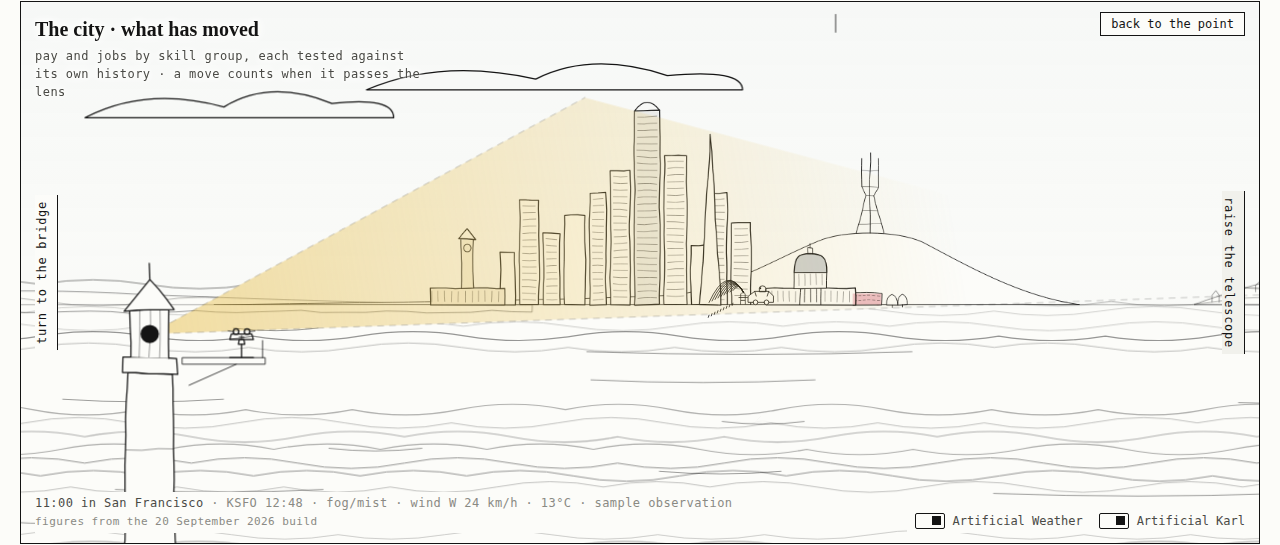
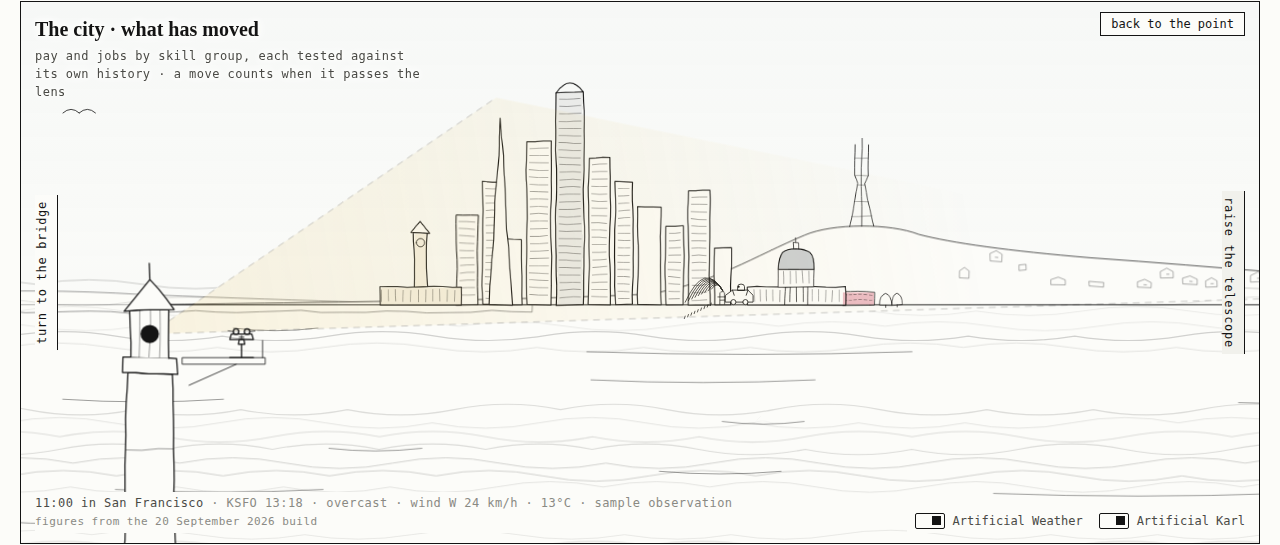
Front page: clouds that keep their place, some behind the land and some in front, the downtown towers in their order, homes on the slopes under Sutro, a fainter light, the east bay hills with their crowned ridge and a train below them, a varied launch that coasts and falls, planes of several kinds, 

diff --git a/docs/mockup/index.html b/docs/mockup/index.html
@@ -65,6 +65,8 @@ header.top{display:flex;align-items:baseline;justify-content:space-between;gap:1
 .fog{transition:opacity .6s}
 .stage[data-aw="off"] .sky .cloud,.stage[data-aw="off"] .sky .rain,.stage[data-aw="off"] .sky .hair,.stage[data-aw="off"] .dawn,.stage[data-aw="off"] .sunwash{opacity:0 !important}
 .stage[data-ak="off"] .fog{opacity:0 !important}
+.bart{animation:bart 26s linear infinite}
+@keyframes bart{0%{transform:translateX(300px)}50%{transform:translateX(840px)}100%{transform:translateX(840px)}}
 .water{animation:swell 6s ease-in-out infinite alternate}
 .water.b{animation-name:swellb;animation-duration:8.5s;animation-delay:-3s}
 .water.c{animation-name:swellc;animation-duration:11s;animation-delay:-6s}
@@ -74,12 +76,13 @@ header.top{display:flex;align-items:baseline;justify-content:space-between;gap:1
 .crest{animation:crest 4s ease-in-out infinite;opacity:0}
 @keyframes crest{0%,100%{opacity:0}40%,60%{opacity:.9}}
 .life{pointer-events:none}
-.gust .fogline{animation-duration:calc(var(--drift,60s)/3) !important}
-.gust .cloud{animation-duration:calc(var(--cdrift,240s)/4) !important}
+/* a gust pushes the fog and the cloud along and lets them settle back; changing their speed mid-way would make them jump */
+#fog,#sky,#skyfront{transition:transform 3s ease-in-out}.gust #fog{transform:translateX(-60px);transition-duration:1.6s}.gust #sky,.gust #skyfront{transform:translateX(-30px);transition-duration:1.6s}
 .fogline{animation:drift var(--drift,60s) linear infinite;animation-direction:var(--dir,normal)}
 .fogline.b{animation-duration:calc(var(--drift,60s)*1.4)}
-@keyframes drift{from{transform:translateX(0)}to{transform:translateX(-160px)}}
-.cloud{animation:drift var(--cdrift,240s) linear infinite;animation-direction:var(--dir,normal)}
+@keyframes drift{from{transform:translateX(0)}to{transform:translateX(-180px)}}
+@keyframes cdrift{from{transform:translateX(1900px)}to{transform:translateX(-500px)}}
+.cloud{animation:cdrift var(--cdrift,1440s) linear infinite;animation-direction:var(--dir,normal)}
 .rain{animation:fall var(--rfall,1.1s) linear infinite}
 @keyframes fall{from{transform:translateY(-40px)}to{transform:translateY(40px)}}
 .sunwash,.dawn{pointer-events:none}
@@ -97,7 +100,7 @@ header.top{display:flex;align-items:baseline;justify-content:space-between;gap:1
 .night .nightlight{opacity:.85}
 .crownblock{animation:flicker 9s ease-in-out infinite}
 @keyframes flicker{0%,100%{opacity:.15}35%{opacity:.9}60%{opacity:.3}80%{opacity:.7}}
-.night .halo{opacity:.55;filter:url(#glow)}
+.night .halo{opacity:.28;filter:url(#glow)}
 
 .hot{cursor:pointer}
 .hot,.hot *{outline:none;pointer-events:auto}
@@ -186,7 +189,7 @@ header.top{display:flex;align-items:baseline;justify-content:space-between;gap:1
 .src b{color:var(--ink);font-weight:500}
 .coin .close{margin-top:12px;font-family:var(--mono);font-size:12px;background:transparent;border:1px solid var(--ink);color:var(--ink);padding:5px 12px;cursor:pointer}
 
-@media (prefers-reduced-motion: reduce){.fogline,.cloud,.rain,.water,.crest,.crownblock{animation:none}.stage>svg,.zoom,.viewer,.beam,.mask-in{transition:none}}
+@media (prefers-reduced-motion: reduce){.fogline,.cloud,.rain,.water,.crest,.crownblock,.bart{animation:none}.stage>svg,.zoom,.viewer,.beam,.mask-in{transition:none}}
 @media (max-width:820px){
   /* On a phone the drawing is a picture and the figures beneath it are the way in: the labels in the
      drawing go, the filters go, and the three views become three cards to tap. */
@@ -225,14 +228,14 @@ header.top{display:flex;align-items:baseline;justify-content:space-between;gap:1
     <!-- ================= the one scene from the point, painted once; the colour lies over the ink ================= -->
     <svg class="pan" id="L-static" viewBox="0 0 1600 700" aria-hidden="true"><g class="zoom scene"><g id="far"></g><g id="washes"></g></g></svg>
     <svg class="pan" id="L-lights" viewBox="0 0 1600 700" aria-hidden="true"><g class="zoom"><g id="lights" class="scene"></g></g></svg>
-    <svg class="pan" id="L-water" viewBox="0 0 1600 700" aria-hidden="true"><g class="zoom scene"><g id="water" class="hair"></g><g id="fog" class="fog" mask="url(#fogmask)"></g></g></svg>
+    <svg class="pan" id="L-water" viewBox="0 0 1600 700" aria-hidden="true"><g class="zoom scene"><g id="skyfront" class="sky thin"></g><g id="water" class="hair"></g><g id="fog" class="fog" mask="url(#fogmask)"></g></g></svg>
     <!-- foreground: the point, the lighthouse, the railing, the viewer at rest -->
-    <svg id="L-life" viewBox="0 0 1600 700" aria-hidden="true"><defs><clipPath id="behind-hills"><path clip-rule="evenodd" d="M0 0 H1600 V700 H0 Z M 1452 341 C 1490 326, 1535 316, 1575 318 C 1590 319, 1598 322, 1600 324 L 1600 341 Z"/></clipPath></defs><g id="life" class="life scene"></g></svg>
+    <svg id="L-life" viewBox="0 0 1600 700" aria-hidden="true"><defs><clipPath id="behind-hills"><path clip-rule="evenodd" d="M0 0 H1600 V700 H0 Z M 1400 342 L 1400 313 L 1500 320 L 1600 329 L 1600 342 Z"/></clipPath></defs><g id="life" class="life scene"></g></svg>
     <svg class="fg" id="L-fg" viewBox="0 0 1600 700" role="group" aria-label="An ink drawing of a lighthouse on a headland. Turn to the city or the bridge, or raise the coin telescope to look at the valley.">
       <g class="zoom" id="fgzoom"><g id="fg" class="scene">
         <path d="M560 700 C 600 620, 690 590, 760 585 C 830 580, 880 600, 930 610 C 980 620, 1040 660, 1060 700 Z" style="fill:var(--paper)"/>
         <path d="M600 660 C 650 640, 700 645, 740 630 M850 640 C 900 630, 950 650, 1000 670" class="thin"/>
-        <defs><linearGradient id="beamgrad" gradientUnits="userSpaceOnUse"><stop offset="0" stop-color="#E8C35A" stop-opacity=".55"/><stop offset="1" stop-color="#E8C35A" stop-opacity="0"/></linearGradient></defs>
+        <defs><linearGradient id="beamgrad" gradientUnits="userSpaceOnUse"><stop offset="0" stop-color="#E8C35A" stop-opacity=".16"/><stop offset="1" stop-color="#E8C35A" stop-opacity="0"/></linearGradient></defs>
         <g class="beam" id="beam"><polygon id="beamlight" points="0,0" fill="url(#beamgrad)" style="stroke:none"/><path d="" class="hair" stroke-dasharray="6 6"/></g>
         <g id="lh"></g>
         <!-- a small platform off the gallery, and the coin telescope on it, turned south -->
@@ -363,8 +366,9 @@ header.top{display:flex;align-items:baseline;justify-content:space-between;gap:1
   }
   function suspension(g, x1, x2, deckY, towerH, sag){
     const mid = (x1+x2)/2;
+    el("path", {d:`M${x1-160} ${deckY} L ${x2+160} ${deckY} L ${x2+160} ${deckY+10} L ${x1-160} ${deckY+10} Z`, style:"fill:var(--paper);stroke:none"}, g);
     el("path", {d:`M${x1-160} ${deckY} L ${x2+160} ${deckY}`}, g); el("path", {d:`M${x1-160} ${deckY+10} L ${x2+160} ${deckY+10}`, class:"thin"}, g);
-    for (const x of [x1, x2]){ el("path", {d:`M${x-8} ${deckY+40} L ${x-6} ${deckY-towerH} L ${x+6} ${deckY-towerH} L ${x+8} ${deckY+40}`}, g); el("path", {d:`M${x-6} ${deckY-towerH+18} L ${x+6} ${deckY-towerH+18} M${x-7} ${deckY-towerH*0.55} L ${x+7} ${deckY-towerH*0.55}`, class:"thin"}, g); }
+    for (const x of [x1, x2]){ el("path", {d:`M${x-8} ${deckY+40} L ${x-6} ${deckY-towerH} L ${x+6} ${deckY-towerH} L ${x+8} ${deckY+40} Z`, style:"fill:var(--paper)"}, g); el("path", {d:`M${x-6} ${deckY-towerH+18} L ${x+6} ${deckY-towerH+18} M${x-7} ${deckY-towerH*0.55} L ${x+7} ${deckY-towerH*0.55}`, class:"thin"}, g); }
     el("path", {d:`M${x1} ${deckY-towerH} Q ${mid} ${deckY-towerH+sag} ${x2} ${deckY-towerH}`}, g);
     el("path", {d:`M${x1} ${deckY-towerH} Q ${x1-100} ${deckY-towerH*0.4} ${x1-160} ${deckY}`}, g);
     el("path", {d:`M${x2} ${deckY-towerH} Q ${x2+100} ${deckY-towerH*0.4} ${x2+160} ${deckY}`}, g);
@@ -457,7 +461,7 @@ header.top{display:flex;align-items:baseline;justify-content:space-between;gap:1
 
   // the city, small on the horizon, drawn once at the size it has from here; turning to it scales this
   // drawn in its own units and mirrored into the scene, since from Point Bonita the waterfront is the north end, on the left, and Sutro the south, on the right
-  const CITY = { x:900, y:340, k:0.42, w:1580 };
+  const CITY = { x:860, y:340, k:0.46, w:1580 };
   const cityX = u => CITY.x + (CITY.w - u)*CITY.k;
   const cityTransform = `translate(${CITY.x + CITY.w*CITY.k},${CITY.y}) scale(${-CITY.k},${CITY.k})`;
   const cityG = el("g", {transform:cityTransform, class:"city"}, far), cityW = el("g", {transform:cityTransform}, washes);
@@ -466,16 +470,27 @@ header.top{display:flex;align-items:baseline;justify-content:space-between;gap:1
     // the hills behind the city, filled, so the sky stays behind them
     // the land: a slope up from the shore to Sutro's crest, down again, then the flat of downtown to the waterfront
     const b0 = baseY-8;
-    el("path", {d:`M ${ox+420} ${b0} C ${ox+500} ${b0-12}, ${ox+570} ${b0-52}, ${ox+630} ${b0-84} C ${ox+665} ${b0-100}, ${ox+735} ${b0-100}, ${ox+770} ${b0-86} C ${ox+830} ${b0-60}, ${ox+880} ${b0-26}, ${ox+960} ${b0-14} C ${ox+1100} ${b0-6}, ${ox+1300} ${b0-4}, ${ox+1580} ${b0} Z`, class:"thin", style:"fill:var(--paper)"}, g);
+    el("path", {d:`M ${ox-40} ${b0} L ${ox-40} ${b0-24} C ${ox+120} ${b0-32}, ${ox+260} ${b0-46}, ${ox+420} ${b0-58} C ${ox+520} ${b0-66}, ${ox+590} ${b0-76}, ${ox+630} ${b0-86} C ${ox+665} ${b0-100}, ${ox+735} ${b0-100}, ${ox+770} ${b0-86} C ${ox+830} ${b0-60}, ${ox+880} ${b0-26}, ${ox+960} ${b0-14} C ${ox+1100} ${b0-6}, ${ox+1300} ${b0-4}, ${ox+1580} ${b0} Z`, class:"thin", style:"fill:var(--paper)"}, g);
+    // the homes on the slopes south of Sutro and under it, in two loose rows below the ridge
+    const ridge = [[-40,-24],[120,-32],[260,-46],[420,-58],[520,-66],[630,-86]];
+    const ridgeY = u => { for (let i=1;i<ridge.length;i++) if (u <= ridge[i][0]){ const [a, ya] = ridge[i-1], [b, yb] = ridge[i]; return ya + (yb-ya)*(u-a)/(b-a); } return -86; };
+    { const rh = rng(97);
+      for (let u = 0; u < 590; u += 26 + rh()*30){
+        const depth = 8 + rh()*34, base = b0 + ridgeY(u) + depth; if (base > b0 - 4) continue;
+        const w_ = 9 + rh()*9, h_ = 5 + rh()*5, x = ox + u + rh()*8;
+        // a small house: a box with a pitched or a flat roof, a window now and then
+        const roof = rh() < .6 ? `L ${x+w_/2} ${base-h_-4}` : "";
+        el("path", {d:`M${x} ${base} L ${x} ${base-h_} ${roof} L ${x+w_} ${base-h_} L ${x+w_} ${base} Z`, class:"hair", style:"fill:var(--paper)"}, g);
+        if (rh() < .5) el("path", {d:`M${x+w_*.35} ${base-h_*.55} l 3 0`, class:"hair"}, g); } }
     const sx = ox+700, sy = baseY-104;
     // Sutro: three masts, the outer pair upright at the top, pinched to a waist, splayed to the feet, tied by struts
     const H = 100;
-    el("path", {d:`M${sx-19} ${sy} L ${sx-5} ${sy-H*0.5} L ${sx-11} ${sy-H*0.62} L ${sx-11} ${sy-H} M${sx} ${sy-H-8} L ${sx} ${sy} M${sx+19} ${sy} L ${sx+5} ${sy-H*0.5} L ${sx+11} ${sy-H*0.62} L ${sx+11} ${sy-H}`, class:"thin"}, g);
-    for (const [f, hw] of [[0.12, 16], [0.3, 11], [0.5, 5], [0.62, 11], [0.84, 11]]) el("path", {d:`M${sx-hw} ${sy-H*f} L ${sx+hw} ${sy-H*f}`, class:"hair"}, g);
+    el("path", {d:`M${sx-15} ${sy} L ${sx-4} ${sy-H*0.52} L ${sx-8} ${sy-H*0.62} L ${sx-8} ${sy-H} M${sx} ${sy-H-8} L ${sx} ${sy} M${sx+15} ${sy} L ${sx+4} ${sy-H*0.52} L ${sx+8} ${sy-H*0.62} L ${sx+8} ${sy-H}`, class:"thin"}, g);
+    for (const [f, hw] of [[0.12, 13], [0.3, 9], [0.5, 4], [0.62, 8], [0.84, 8]]) el("path", {d:`M${sx-hw} ${sy-H*f} L ${sx+hw} ${sy-H*f}`, class:"hair"}, g);
     const towers = [[860,110,26,1],[892,150,24,1],[920,80,20,0],[946,200,30,1],[982,260,34,1],[1022,180,26,1],[1054,150,22,1],[1082,120,28,0],[1116,96,22,1],[1144,140,26,1],[1176,70,20,0]];
-    for (const [x,h,w_,win] of towers) box(g, ox+x, baseY-h-8, w_, h, win);
-    el("path", {d:`M ${ox+900} ${baseY-8} L ${ox+914} ${baseY-236} L ${ox+928} ${baseY-8} Z`, style:"fill:var(--paper)"}, g);
-    el("path", {d:`M ${ox+982} ${baseY-268} Q ${ox+999} ${baseY-290} ${ox+1016} ${baseY-268}`}, g);
+    for (const [x,h,w_,win] of towers) box(g, ox + 2056 - x - w_, baseY-h-8, w_, h, win);
+    el("path", {d:`M ${ox+1128} ${baseY-8} L ${ox+1142} ${baseY-236} L ${ox+1156} ${baseY-8} Z`, style:"fill:var(--paper)"}, g);
+    el("path", {d:`M ${ox+1040} ${baseY-268} Q ${ox+1057} ${baseY-290} ${ox+1074} ${baseY-268}`}, g);
     // City Hall and Hayes Valley west of the towers, under Sutro: the house a little behind, the trees in front of it
     const hv = ox+CH, gy = baseY-8;
     el("path", {d:`M ${hv-96} ${gy} L ${hv-96} ${gy-16} L ${hv-56} ${gy-16} L ${hv-56} ${gy} Z`, class:"thin", style:"fill:var(--paper)"}, g);
@@ -494,22 +509,13 @@ header.top{display:flex;align-items:baseline;justify-content:space-between;gap:1
       tintRect(w, hv-95, gy-15, 38, 15, "var(--rose)");                                                        // the house over the green
       tintRect(w, ox+1191, baseY-29, 98, 21, "var(--cream)");                                                  // the Ferry Building
       tintRect(w, ox+1233, baseY-95, 14, 66, "var(--cream)");
-      tintRect(w, ox+983, baseY-267, 32, 259, "var(--glass)").style.opacity = ".12";                            // the tallest tower
+      tintRect(w, ox+1041, baseY-267, 32, 259, "var(--glass)").style.opacity = ".12";                            // the tallest tower
     }
   }
   skyline(cityG, cityW, 8, true, 0);
 
   // the lighthouse, in front, on the point
   lighthouse($("#lh"), 800, 585, 330);
-  (function southHills(g){
-    el("path", {d:"M 1452 340 C 1490 326, 1535 316, 1575 318 C 1590 319, 1598 322, 1600 324 L 1600 340 Z", class:"hair", style:"fill:var(--paper)"}, g);
-    el("path", {d:"M 1500 340 C 1530 334, 1560 330, 1600 331", class:"hair"}, g);
-    const r = rng(71);
-    for (let x = 1462; x < 1596; x += 9 + r()*6){
-      const t = (x - 1452)/148, hy = 340 - 22*Math.sin(Math.min(1, t*1.2)*Math.PI/2) + 2, w = 4 + r()*3, h = 3 + r()*2;
-      el("path", {d:`M${x} ${hy} L ${x} ${hy-h} L ${x+w/2} ${hy-h-2.5} L ${x+w} ${hy-h} L ${x+w} ${hy}`, class:"hair"}, g);
-    }
-  })(far);
   wobble(far, 1); wobble($("#lh"), 2); wobble(headland, 6);
 
   /* ---------- the city after dark ----------
@@ -540,9 +546,9 @@ header.top{display:flex;align-items:baseline;justify-content:space-between;gap:1
     tint(L, domeHalf(hv, gy-44, 44, 24, -1), ca).classList.add("nightlight");
     tint(L, domeHalf(hv, gy-44, 44, 24, 1), cb).classList.add("nightlight");
     // the crown: a soft wash and a grid of blocks that breathe out of step
-    tintRect(L, ox+983, baseY-290, 32, 30, "#9FB7C9").classList.add("nightlight");
+    tintRect(L, ox+1041, baseY-290, 32, 30, "#9FB7C9").classList.add("nightlight");
     const grid = el("g", {class:"nightlight"}, L); const r = rng(59);
-    for (let i=0;i<4;i++) for (let j=0;j<5;j++){ const b = el("rect", {x:ox+986+i*7, y:baseY-286+j*6, width:5, height:4, class:"crownblock", style:`fill:#9FB7C9;stroke:none`}, grid); b.style.animationDelay = (-r()*9).toFixed(1) + "s"; }
+    for (let i=0;i<4;i++) for (let j=0;j<5;j++){ const b = el("rect", {x:ox+1044+i*7, y:baseY-286+j*6, width:5, height:4, class:"crownblock", style:`fill:#9FB7C9;stroke:none`}, grid); b.style.animationDelay = (-r()*9).toFixed(1) + "s"; }
   }
   drawLights(new Date());
 
@@ -567,8 +573,8 @@ header.top{display:flex;align-items:baseline;justify-content:space-between;gap:1
     el("path", {d:"M-300 -60 L 300 -60", class:"hair"}, hood);
     el("path", {d:"M-14 -134 L 14 -134 M 0 -142 L 0 -126", class:"thin"}, hood);                      // the slot
     el("path", {d:"M-64 -118 L 64 -118 L 64 -78 L -64 -78 Z", class:"thin"}, hood);                  // the plate
-    const t = el("text", {x:0, y:-88, "text-anchor":"middle", class:"cap"}, hood); t.textContent = "25¢";
-    const t2 = el("text", {x:0, y:-46, "text-anchor":"middle"}, hood); t2.textContent = "2 MIN · SOURCES AND METHOD";
+    const t = el("text", {x:0, y:-88, "text-anchor":"middle", class:"cap"}, hood); t.textContent = "25.5¢";
+    const t2 = el("text", {x:0, y:-46, "text-anchor":"middle"}, hood); t2.textContent = "PER MILLION TOKENS · SOURCES AND METHOD";
     el("circle", {cx:-236, cy:-112, r:20}, hood); el("path", {d:"M-236 -132 L -236 -92 M-256 -112 L -216 -112", class:"hair"}, hood);
     const k = el("text", {x:-236, y:-78, "text-anchor":"middle"}, hood); k.textContent = "FOCUS";
     const hot = el("g", {class:"hot", id:"hot-coin", tabindex:"0", role:"button", "aria-label":"Insert a coin for sources and method"}, hood);
@@ -583,14 +589,29 @@ header.top{display:flex;align-items:baseline;justify-content:space-between;gap:1
     const cr = el("clipPath", {id:"eye-r"}, defs); el("rect", {x:800, y:0, width:800, height:700}, cr);
     const L = el("g", {"clip-path":"url(#eye-l)"}, g), R = el("g", {"clip-path":"url(#eye-r)"}, g);
     // left: the hills behind, the campus on its slope, its campanile over the trees, the bay in front
-    el("path", {d:"M 480 250 C 540 226, 610 214, 670 226 C 720 236, 770 226, 820 236 L 820 400 L 480 400 Z", class:"thin", style:"fill:var(--paper)"}, L);
-    el("path", {d:"M 480 300 C 560 286, 660 282, 820 292", class:"hair"}, L);
-    box(L, 548, 352, 56, 42, true); box(L, 700, 360, 70, 34, true); box(L, 612, 370, 30, 24, false);
-    campanile(L, 660, 394, 150);
-    tintRect(L, 649, 245, 22, 149, "var(--cream)");
-    for (const x of [520, 580, 690, 772]) el("path", {d:`M${x} 396 q 0 -16 10 -19 q 10 3 10 19 z`, class:"thin", style:"fill:var(--paper)"}, L);
+    // the hills behind: a ridge crowned with a ragged line of trees, a raised stand of them with a mast in it, then a sharp drop to the lower ridge
+    { const rr = rng(83); let d = "M 480 400 L 480 270";
+      for (let x = 480; x < 596; x += 10){ const y = 268 - (x-480)*0.08; d += ` Q ${x+5} ${(y - 5 - rr()*3).toFixed(1)} ${x+10} ${y.toFixed(1)}`; }
+      d += " L 600 250";
+      for (let x = 600; x < 690; x += 9) d += ` Q ${x+4.5} ${(240 - rr()*4).toFixed(1)} ${x+9} ${(246 + rr()*2).toFixed(1)}`;
+      d += " L 693 267";
+      for (let x = 693; x < 820; x += 11){ const y = 267 + (x-693)*0.03; d += ` Q ${x+5.5} ${(y - 4 - rr()*3).toFixed(1)} ${x+11} ${y.toFixed(1)}`; }
+      el("path", {d: d + " L 820 400 Z", class:"thin", style:"fill:var(--paper)"}, L); }
+    el("path", {d:"M 646 242 L 646 224 M 643 230 L 649 230", class:"hair"}, L);
+    el("path", {d:"M 480 318 C 540 300, 600 292, 660 300 C 720 308, 770 300, 820 306 M 560 334 C 600 322, 640 320, 700 330", class:"hair"}, L);
+    box(L, 616, 352, 56, 42, true); box(L, 706, 360, 70, 34, true); box(L, 530, 370, 30, 24, false);
+    campanile(L, 590, 394, 150);
+    tintRect(L, 579, 245, 22, 149, "var(--cream)");
+    for (const x of [506, 684, 782]) el("path", {d:`M${x} 396 q 0 -16 10 -19 q 10 3 10 19 z`, class:"thin", style:"fill:var(--paper)"}, L);
     el("path", {d:"M 480 396 L 820 396", class:"thin"}, L);
-    for (let i=0;i<4;i++){ const y = 412 + i*18; el("path", {d:`M ${500 + i*10} ${y} q 40 -3 80 0 M ${640 - i*14} ${y+6} q 50 -3 100 0`, class:"hair"}, L); }
+    // the elevated line across the front, and a train along it now and then
+    el("path", {d:"M 480 418 L 820 418 M 480 423 L 820 423", class:"thin"}, L);
+    for (let x = 500; x < 820; x += 46) el("path", {d:`M${x} 423 L ${x} 460 M${x+6} 423 L ${x+6} 460`, class:"hair"}, L);
+    { const train = el("g", {class:"bart"}, L);
+      for (let i=0;i<3;i++){ const x = i*58, nose = i === 2;
+        el("path", {d: nose ? `M ${x} 417 L ${x} 405 L ${x+42} 405 Q ${x+54} 406 ${x+56} 417 Z` : `M ${x} 417 L ${x} 405 L ${x+56} 405 L ${x+56} 417 Z`, class:"thin", style:"fill:var(--paper)"}, train);
+        for (let j=0; j<5; j++) el("path", {d:`M ${x+5+j*9} 410 l 5 0`, class:"hair"}, train); } }
+    for (let i=0;i<2;i++){ const y = 452 + i*14; el("path", {d:`M ${510 + i*10} ${y} q 40 -3 80 0 M ${660 - i*14} ${y+5} q 50 -3 100 0`, class:"hair"}, L); }
     // right: the foothills and the dish on them, the tower over the arcaded quad, palms along the front
     el("path", {d:"M 780 262 C 850 236, 930 230, 1000 244 C 1050 254, 1090 256, 1130 262 L 1130 400 L 780 400 Z", class:"thin", style:"fill:var(--paper)"}, R);
     el("path", {d:"M 1012 248 a 12 7 0 0 1 24 0 Z M 1024 248 L 1024 238", class:"thin"}, R);
@@ -605,13 +626,13 @@ header.top{display:flex;align-items:baseline;justify-content:space-between;gap:1
     for (let i=0;i<4;i++){ const y = 412 + i*18; el("path", {d:`M ${840 + i*12} ${y} q 40 -3 80 0 M ${980 - i*10} ${y+6} q 50 -3 100 0`, class:"hair"}, R); }
   })($("#valley-scene"));
   wobble($("#valley-scene"), 3); wobble($("#viewer-big"), 4);
-  fog($("#fog-valley"), [[330, 4, 3]], 41);
+  fog($("#fog-valley"), [[330, 4, 3]], 41); $("#fog-valley").setAttribute("clip-path", "url(#eye-l)");
 
   /* ---------- the beam and the pan ---------- */
   const beam = $("#beam"), cone = $("#cone"), pans = document.querySelectorAll("svg.pan"), fgSvg = $("#L-fg"), fg = $("#fg"), stage = $("#stage");
   // what each view is, in the scene: the two ends the beam reaches for. The telescope is in front, on the rail.
   // from the point the beam reaches for the whole of the place; once turned, it skims the water to the place's feet
-  const TARGET = { city:{ ends:[[1020, 230], [1390, 336]], base:[[1060, 250], [1390, 338]] }, bridge:{ ends:[[160, 240], [760, 330]], base:[[300, 215], [560, 338]] }, tele:{ ends:[[1470, 334], [1600, 346]] } };
+  const TARGET = { city:{ ends:[[1000, 230], [1450, 336]], base:[[1020, 250], [1450, 338]] }, bridge:{ ends:[[160, 240], [760, 330]], base:[[300, 215], [560, 338]] }, tele:{ ends:[[1470, 334], [1600, 346]] } };
   const beamPath = $("#beam path"); let beamTimer = null; const fogTimers = [];
   // where the lighthouse stands in each view: whole at the point; turned, only its lantern shows, large, at the side you turned from
   const LANTERN = [800, 265];
@@ -853,7 +874,7 @@ header.top{display:flex;align-items:baseline;justify-content:space-between;gap:1
   function yOfAltitude(alt){ return 340 - Math.max(-12, Math.min(70, alt))*4.6; }
   const HEADING = { home:105, city:125, bridge:100, valley:150 };
 
-  const sky = $("#sky");
+  const sky = $("#sky"), skyFront = $("#skyfront");
   // The sky's own colour: the faintest wash, blue by day, warm at the horizon around dawn and dusk, a deep
   // blue at night. Each is a pair of stops keyed to the sun's altitude and blended between the keys.
   const SKYKEYS = [[-18, ["#1B2238", .3, "#1B2238", .12]], [-7, ["#7A7CA6", .2, "#E9A27A", .16]], [-1, ["#C4BEDD", .2, "#F2B48C", .22]],
@@ -874,14 +895,18 @@ header.top{display:flex;align-items:baseline;justify-content:space-between;gap:1
     const lateral = -Math.sin((from - HEADING[view])*rad) * speed;              // km/h, positive means rightwards
     document.documentElement.style.setProperty("--dir", lateral < 0 ? "normal" : "reverse");
     document.documentElement.style.setProperty("--drift", Math.max(12, 160 / Math.max(Math.abs(lateral), 3)) + "s");
-    document.documentElement.style.setProperty("--cdrift", Math.max(60, 900 / Math.max(Math.abs(lateral), 3)) + "s");
+    // clouds cross the whole frame; their place is set by the clock, so redrawing the sky never moves them
+    const cross = 6*Math.max(60, 900 / Math.max(Math.abs(lateral), 3));
+    document.documentElement.style.setProperty("--cdrift", cross + "s");
     document.documentElement.style.setProperty("--rfall", (o.wind_kmh > 40 ? .7 : 1.1) + "s");
     document.querySelectorAll(".fog").forEach(g=>{ g.style.opacity = w.fog; });
-    sky.innerHTML = "";
-    const r = rng(w.clouds*13+7);
-    for (let i=0;i<w.clouds*3;i++){ const x = r()*W, y = 200 + r()*50, wd = 80 + r()*140;
-      const d = w.streak ? `M${x} ${y} q ${wd*.5} -6 ${wd} 0 M${x+20} ${y+8} q ${wd*.3} -4 ${wd*.6} 0` : `M${x} ${y} q ${wd*.2} -18 ${wd*.45} -6 q ${wd*.15} -16 ${wd*.35} -2 q ${wd*.2} -4 ${wd*.2} 8 Z`;
-      const c = el("path", {d, class:"cloud"}, sky); c.style.animationDelay = (-r()*240).toFixed(0) + "s"; }
+    sky.innerHTML = ""; skyFront.innerHTML = "";
+    const r = rng(w.clouds*13+7), clock = Date.now()/1000;
+    // most cloud is behind the land and the bridge; one in four passes in front of them
+    for (let i=0;i<w.clouds*3;i++){ const y = 110 + r()*90, wd = 80 + r()*140, front = !w.streak && i % 4 === 3;
+      const d = w.streak ? `M0 ${y} q ${wd*.5} -6 ${wd} 0 M20 ${y+8} q ${wd*.3} -4 ${wd*.6} 0` : `M0 ${y} q ${wd*.2} -18 ${wd*.45} -6 q ${wd*.15} -16 ${wd*.35} -2 q ${wd*.2} -4 ${wd*.2} 8 Z`;
+      const c = el("path", {d, class:"cloud"}, front ? skyFront : sky); if (!w.streak) c.style.fill = "var(--paper)";
+      c.style.animationDelay = (-(((clock/cross) + r()) % 1)*cross).toFixed(1) + "s"; }
     if (w.band) for (let y=96; y<140; y+=18) el("path", {d:`M 0 ${y} L ${W} ${y}`, class:"hair"}, sky);
     const rainN = [0, 220, 560][Math.max(w.rain, rainLevel)];
     if (rainN){ const slant = -lateral * 0.35; const g = el("g", {class:"rain"}, sky);
@@ -939,38 +964,54 @@ header.top{display:flex;align-items:baseline;justify-content:space-between;gap:1
   function tween(ms, step, done){ const t0 = performance.now(); (function f(t){ const k = Math.min(1, (t - t0)/ms); step(k); if (k < 1) requestAnimationFrame(f); else if (done) done(); })(t0); }
   let taxiUntil = 0;                        // one robotaxi on the road at a time
   const EVENTS = {
-    gull(){ const g = el("g", {class:"thin"}, life); const y = 150 + Math.random()*120, ltr = Math.random() < .5, flap = ["M-10 0 q 10 -9 20 0 M10 0 q 10 -9 20 0", "M-10 0 q 10 -2 20 0 M10 0 q 10 -2 20 0"];
-      const w = el("path", {d:flap[0]}, g); let i = 0; const flapper = setInterval(()=>{ w.setAttribute("d", flap[i++ % 2]); }, 260);
-      tween(14000 + Math.random()*6000, k=>{ const x = ltr ? -40 + k*1700 : 1640 - k*1700; g.setAttribute("transform", `translate(${x},${y + Math.sin(k*9)*8})`); }, ()=>{ clearInterval(flapper); g.remove(); }); },
-    plane(){ const g = el("g", {class:"thin"}, life);
-      el("path", {d:"M-30 0 L 30 0 M-6 0 L -18 -12 M-6 0 L -18 12 M20 0 L 14 -9 M-28 0 L -33 -7 M-30 0 L 30 0 L 32 -2"}, g);
-      const light = el("circle", {cx:-30, cy:0, r:1.8, class:"solid"}, g); let on = false; const blink = setInterval(()=>{ on = !on; light.style.opacity = on ? 1 : 0; }, 700);
-      const y = 120 + Math.random()*40;
-      tween(32000, k=>{ g.setAttribute("transform", `translate(${1660 - k*1760},${y + k*18})`); }, ()=>{ clearInterval(blink); g.remove(); }); },
+    gull(){ // one to three, each its own size, pace, bob and wingbeat
+      const n = 1 + Math.floor(Math.random()*Math.random()*3), ltr = Math.random() < .5, y0 = 130 + Math.random()*140, dur = 12000 + Math.random()*10000;
+      for (let j=0;j<n;j++){ const g = el("g", {class:"thin"}, life), sc = .75 + Math.random()*.5, amp = 4 + Math.random()*7, fq = 6 + Math.random()*7, ph = Math.random()*6, dx = j*(28 + Math.random()*20), dy = (Math.random()-.5)*30;
+        const flap = ["M-10 0 q 10 -9 20 0 M10 0 q 10 -9 20 0", "M-10 0 q 10 -2 20 0 M10 0 q 10 -2 20 0"];
+        const w = el("path", {d:flap[0]}, g); let i = 0; const flapper = setInterval(()=>{ w.setAttribute("d", flap[i++ % 2]); }, 200 + Math.random()*140);
+        tween(dur*(.95 + Math.random()*.1), k=>{ const x = ltr ? -40 - dx + k*1740 : 1640 + dx - k*1740; g.setAttribute("transform", `translate(${x},${y0 + dy + Math.sin(k*fq + ph)*amp}) scale(${sc})`); }, ()=>{ clearInterval(flapper); g.remove(); }); } },
+    plane(){ // an airliner high over, one coming in to land with its gear down, one climbing out and folding its gear, or a small jet in a hurry
+      const kind = ["cruise","landing","takeoff","jet"][Math.floor(Math.random()*4)];
+      const g = el("g", {class:"thin"}, life), ship = el("g", {}, g);
+      if (kind === "jet") el("path", {d:"M-22 0 L 20 0 Q 25 0 23 -2 M-2 0 L -10 -7 M-2 0 L -10 6 M-19 0 L -23 -9 M-27 -9 L -19 -9"}, ship);
+      else el("path", {d:"M-30 0 L 30 0 L 32 -2 M-6 0 L -18 -12 M-6 0 L -18 12 M20 0 L 14 -9 M-28 0 L -33 -7"}, ship);
+      const gear = el("path", {d:"M 10 1 L 10 6 M -6 1 L -6 6 M 9 7 L 11 7 M -7 7 L -5 7", class:"hair"}, ship); gear.style.opacity = (kind === "landing" || kind === "takeoff") ? 1 : 0;
+      const light = el("circle", {cx:-30, cy:0, r:1.6, class:"solid"}, ship); let on = false; const blink = setInterval(()=>{ on = !on; light.style.opacity = on ? 1 : 0; }, 600 + Math.random()*300);
+      const spec = { cruise:{ ltr: Math.random() < .5, y:[90 + Math.random()*40, 100 + Math.random()*40], dur: 36000 + Math.random()*10000, s:.7 },
+                     landing:{ ltr:true, y:[110 + Math.random()*30, 300], dur: 24000 + Math.random()*6000, s:1 },
+                     takeoff:{ ltr:false, y:[320, 70 + Math.random()*30], dur: 22000 + Math.random()*6000, s:1 },
+                     jet:{ ltr: Math.random() < .5, y:[70 + Math.random()*40, 60 + Math.random()*50], dur: 14000 + Math.random()*5000, s:.6 } }[kind];
+      const wob = Math.random()*6;
+      tween(spec.dur, k=>{ const x = spec.ltr ? -80 + k*1760 : 1680 - k*1760, e = kind === "takeoff" ? k*k : kind === "landing" ? 1 - (1-k)*(1-k) : k, y = spec.y[0] + (spec.y[1] - spec.y[0])*e + Math.sin(k*5 + wob)*1.5;
+        if (kind === "takeoff") gear.style.opacity = Math.max(0, 1 - (k-.25)*6);
+        const climb = kind === "takeoff" ? -8 : kind === "landing" ? 5 : 0;
+        g.setAttribute("transform", `translate(${x},${y}) scale(${spec.ltr ? spec.s : -spec.s},${spec.s}) rotate(${spec.ltr ? climb : -climb})`); }, ()=>{ clearInterval(blink); g.remove(); }); },
     rocket(){ const view = stage.dataset.view; if (view === "city") return EVENTS.gull();
-      // it lifts from beyond the southern hills on the horizon, or, through the eyepieces, from the valley
-      const [x0, y0] = view === "valley" ? [930, 262] : view === "home" ? [1545, 342] : [1480, toScreen("bridge", 0, 338)[1]];
+      // it lifts from behind the hills south of the city, or, through the eyepieces, from the south bay's campus
+      const [x0, y0] = view === "valley" ? [930, 262] : view === "home" ? [1540, 344] : [1480, toScreen("bridge", 0, 338)[1]];
       const g = el("g", {class:"thin"}, life); if (view === "home") g.setAttribute("clip-path", "url(#behind-hills)");
-      el("path", {d:"M0 0 L 0 -26 L 4 -34 L 8 -26 L 8 0 Z M0 0 L -4 6 M8 0 L 12 6", transform:"translate(-4,0)", style:"fill:var(--paper)"}, g);
+      el("path", {d:"M-3 0 L -3 -20 Q 0 -30 3 -20 L 3 0 Z M-3 -5 L -7 2 L -3 0 M 3 -5 L 7 2 L 3 0", style:"fill:var(--paper)"}, g);
       const plume = el("g", {class:"hair"}, g);
-      const puff = () => { if (plume.childElementCount < 40 && Math.random() < .6) el("path", {d:`M${(Math.random()-.5)*8} ${6 + Math.random()*10} l 0 ${6 + Math.random()*14}`}, plume); };
+      const puff = () => { if (plume.childElementCount < 40 && Math.random() < .6) el("path", {d:`M${(Math.random()-.5)*7} ${4 + Math.random()*8} l 0 ${6 + Math.random()*14}`}, plume); };
+      const lean = (Math.random() < .55 ? 1 : -1) * (.35 + Math.random()*.8), pace = .85 + Math.random()*.3;
       if (!FORCE_FAIL && Math.random() < 2/3){
-        tween(14000, k=>{ const y = y0 - k*k*(y0+80), x = x0 - k*k*170; g.setAttribute("transform", `translate(${x},${y}) rotate(${-k*16})`); puff(); plume.style.opacity = 1 - k*0.6; }, ()=>g.remove());
+        tween(14000/pace, k=>{ const y = y0 - k*k*(y0+80), x = x0 - k*k*170*lean; g.setAttribute("transform", `translate(${x},${y}) rotate(${-k*18*lean})`); puff(); plume.style.opacity = 1 - k*.6; }, ()=>g.remove());
         return; }
-      // the other time: it climbs, coughs, hangs and shudders, then tumbles back to the water, and the bay closes over it
-      const top = y0 - 230, xf = x0 - 40, waterY = y0 + 38; let pop = null, splash = null, fx = xf;
-      tween(12500, k=>{
-        if (k < .36){ const t = k/.36; g.setAttribute("transform", `translate(${x0 - t*40},${y0 - (2*t - t*t)*230}) rotate(${-t*10})`); puff(); }
-        else if (k < .46){ const t = (k-.36)/.1;
-          if (!pop){ g.removeAttribute("clip-path"); pop = el("g", {class:"hair"}, life); for (let i=0;i<9;i++){ const a = i/9*2*Math.PI; el("path", {d:`M${xf + Math.cos(a)*7} ${top - 16 + Math.sin(a)*7} l ${Math.cos(a)*9} ${Math.sin(a)*9}`}, pop); } plume.style.opacity = 0; }
-          g.setAttribute("transform", `translate(${xf + Math.sin(t*44)*2.5},${top + t*6}) rotate(${-10 + Math.sin(t*34)*14})`); pop.style.opacity = 1 - t*.6; }
-        else if (k < .86){ const t = (k-.46)/.4; fx = xf + Math.sin(t*10)*20;
-          g.setAttribute("transform", `translate(${fx},${top + 6 + t*t*(waterY - top - 6)}) rotate(${-10 + t*t*420 + Math.sin(t*24)*25})`); if (pop) pop.style.opacity = Math.max(0, .4 - t*2); }
+      // the other time the engine cuts: the plume goes, it coasts up a little further and slows, hangs and wobbles, then falls back to the bay
+      const lift = 190, coast = 34, y1 = y0 - lift, hang = y1 - coast, waterY = y0 + 40; let splash = null, fx = x0;
+      tween(12500/pace, k=>{
+        if (k < .34){ const t = k/.34; g.setAttribute("transform", `translate(${x0 - t*t*30*lean},${y0 - t*t*lift}) rotate(${-t*8*lean})`); puff(); }
+        else if (k < .5){ const t = (k-.34)/.16; plume.style.opacity = Math.max(0, 1 - t*5);
+          g.setAttribute("transform", `translate(${x0 - 30*lean - t*8*lean},${y1 - (1-(1-t)**2)*coast}) rotate(${-8*lean - t*4*lean})`); }
+        else if (k < .6){ const t = (k-.5)/.1; g.removeAttribute("clip-path");
+          g.setAttribute("transform", `translate(${x0 - 38*lean + Math.sin(t*30)*1.5},${hang + t*4}) rotate(${-12*lean + Math.sin(t*26)*(6 + t*18)})`); }
+        else if (k < .88){ const t = (k-.6)/.28; fx = x0 - 38*lean + Math.sin(t*9)*16;
+          g.setAttribute("transform", `translate(${fx},${hang + 4 + t*t*(waterY - hang - 4)}) rotate(${-12*lean + t*t*400*lean + Math.sin(t*22)*22})`); }
         else { if (!splash){ g.style.opacity = 0; splash = el("g", {class:"thin"}, life);
             for (let i=0;i<7;i++){ const a = (-150 + i*20)*Math.PI/180; el("path", {d:`M${fx} ${waterY} l ${Math.cos(a)*8} ${Math.sin(a)*8} l ${Math.cos(a)*10} ${Math.sin(a)*14}`}, splash); }
             el("path", {d:`M${fx-30} ${waterY+6} q 30 -5 60 0 M${fx-48} ${waterY+14} q 48 -6 96 0`, class:"hair"}, splash); }
-          splash.style.opacity = 1 - (k-.86)/.14; }
-      }, ()=>{ g.remove(); if (pop) pop.remove(); if (splash) splash.remove(); }); },
+          splash.style.opacity = 1 - (k-.88)/.12; }
+      }, ()=>{ g.remove(); if (splash) splash.remove(); }); },
     robotaxi(){ if (stage.dataset.view !== "city") return EVENTS.gull(); if (performance.now() < taxiUntil) return; taxiUntil = performance.now() + 21000;
       // the city's own units on screen, and the drawn hydrant's place on the shore; it comes in from the west along the front
       const k = ZOOM.city.s*CITY.k, [hx, hy] = toScreen("city", cityX(HYD), CITY.y);
@@ -984,15 +1025,16 @@ header.top{display:flex;align-items:baseline;justify-content:space-between;gap:1
       const spout = el("g", {class:"thin", transform:`translate(${hx},${hy}) scale(${-k},${k})`}, life); spout.style.opacity = 0;
       for (let i=0;i<9;i++) el("path", {d:`M0 -17 q ${6 + i*2} ${-14 - i*3} ${14 + i*4} ${-2 + i*2} M${14 + i*4} ${-2 + i*2} l 1 3`}, spout);
       const stop = hx + 20*S;
-      tween(11000, k=>{ const x = x0 + Math.min(k*1.12, 1)*(stop-x0); const bump = k > .89 ? Math.sin((k-.89)*70)*2.5 : 0; g.setAttribute("transform", `translate(${x+bump},${y})`); if (k > .89) spout.style.opacity = Math.min(1, (k-.89)*12); },
+      tween(11000*(.85 + Math.random()*.3), k=>{ const x = x0 + Math.min(k*1.12, 1)*(stop-x0); const bump = k > .89 ? Math.sin((k-.89)*70)*2.5*(1-k)/.11 : 0; g.setAttribute("transform", `translate(${x+bump},${y})`); if (k > .89) spout.style.opacity = Math.min(1, (k-.89)*12); },
         ()=>{ tween(2200, k=>{ spout.style.opacity = 1; }, ()=>{ tween(900, k=>{ car.setAttribute("transform", `scale(${S*(1 - 2*k)}, ${S})`); }, ()=>{ tween(6000, k=>{ g.setAttribute("transform", `translate(${stop + k*k*(1700-stop)},${y})`); spout.style.opacity = 1 - k; }, ()=>{ clearInterval(spin); g.remove(); spout.remove(); }); }); }); }); },
     gust(){ stage.classList.add("gust"); document.querySelectorAll(".gull").forEach(p=>{ p.style.transition = "transform .8s"; p.style.transform = "rotate(-22deg)"; });
-      setTimeout(()=>{ stage.classList.remove("gust"); drawSky(OBS, stage.dataset.view); }, 5000); },
+      setTimeout(()=>{ stage.classList.remove("gust"); }, 5000); },
     ferry(){ if (stage.dataset.view !== "bridge") return EVENTS.gull();
       const g = el("g", {class:"thin"}, life); el("path", {d:"M0 0 l -30 0 l 6 10 l 48 0 l 6 -10 z M-14 0 l 0 -10 l 22 0 l 0 10 M-4 -10 l 0 -9"}, g);
-      tween(34000, k=>{ g.setAttribute("transform", `translate(${700 + k*1000},${560 + Math.sin(k*20)*1.5})`); }, ()=>g.remove()); },
+      const y = 530 + Math.random()*50, dur = 28000 + Math.random()*14000, bob = 1 + Math.random()*1.5;
+      tween(dur, k=>{ g.setAttribute("transform", `translate(${700 + k*1000},${y + Math.sin(k*20)*bob})`); }, ()=>g.remove()); },
   };
-  const WEIGHTS = [["gull",6],["plane",1],["gust",2],["ferry",1],["rocket",2],["robotaxi",1]];
+  const WEIGHTS = [["gull",6],["plane",3],["gust",2],["ferry",1],["rocket",2],["robotaxi",1]];
   const FORCE_FAIL = params.get("rocket") === "fail";
   const WELCOME = { city:"robotaxi", bridge:"ferry", home:"gull", valley:"gull" };
   let welcomeTimer = null;
